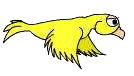
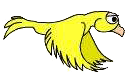
学习原声帧动画。

Changed region(s): [[0.0, 0.1316, 0.9552, 0.9474]]

diff --git a/JavaScript/动画效果/原生/js/index.js b/JavaScript/动画效果/原生/js/index.js
@@ -1,0 +1,31 @@
+window.onload = function () {
+
+    let timer;
+    let bird = document.getElementById("bird");
+    let start = document.getElementById("start");
+    let stop = document.getElementById("stop");
+    let imageNum = 1;
+    console.log(bird);
+
+    start.addEventListener("click", function () {
+
+        timer = window.setInterval(function () {
+
+            bird.style.background = `url("../images/${imageNum}.png"`;
+            let birdLeft=parseInt(window.getComputedStyle(bird,null).left)+20;
+            if(birdLeft>window.innerWidth){
+                birdLeft=-134;
+            }
+            bird.style.left=birdLeft+"px";
+            imageNum++;
+            imageNum %= 8;
+
+        }, 100);
+    });
+
+    stop.addEventListener("click", function () {
+        window.clearInterval(timer);
+    });
+
+
+};

diff --git a/JavaScript/动画效果/原生/index.html b/JavaScript/动画效果/原生/index.html
@@ -3,8 +3,27 @@
 <head>
     <meta charset="UTF-8">
     <title>Title</title>
+    <script src="js/index.js"></script>
+    <style>
+        *{
+            padding: 0;
+            margin: 0;
+        }
+
+        #bird{
+            width: 134px;
+            height: 76px;
+            background: url("../images/0.png");
+            position: relative;
+            left: 0;
+        }
+    </style>
 </head>
 <body>
+
+<button id="start">开始</button>
+<button id="stop">暂停</button>
+<div id="bird"></div>
 
 </body>
 </html>
